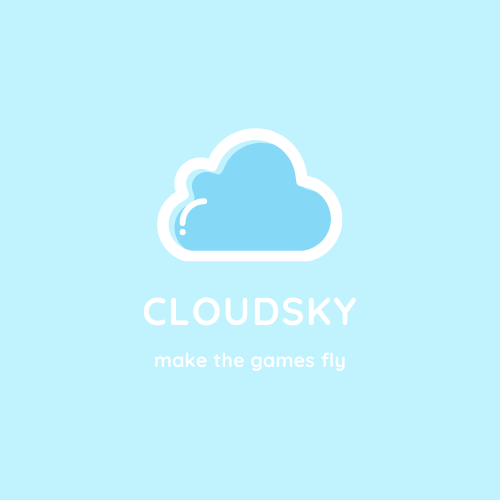
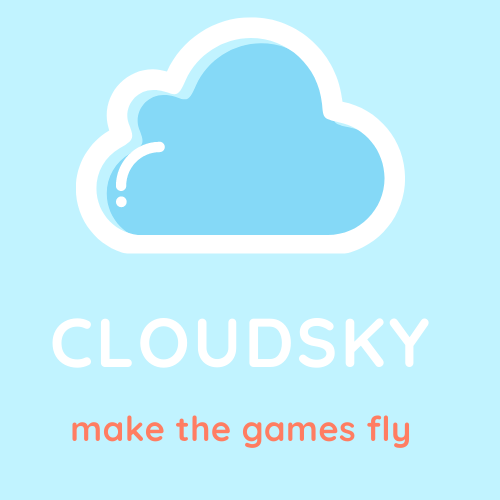
fix: login n reg navigation

diff --git a/project/lib/ui/src/regFragment.cpp b/project/lib/ui/src/regFragment.cpp
@@ -11,16 +11,21 @@ RegFragment::RegFragment()
     : _explanLabel(new QLabel("Input your data to confirm registration"))
     , _userFirstName(new QLineEdit)
     , _userSecondName(new QLineEdit)
+    , _userCountry(new QLineEdit)
+    , _userEmail(new QLineEdit)
     , _userNickName(new QLineEdit)
     , _userFirstPassword(new QLineEdit)
     , _userSecondPassword(new QLineEdit)
     , _ageTxt(new QLabel("Enter your age"))
     , _userAge(new QSpinBox)
+    , _errorLabel(new QLabel("<i>To check and send the data push the button</i>"))
     , _regBut(new QPushButton("Confirm registration"))
     , _backBut(new QPushButton("Back"))
 {
     _userFirstName->setPlaceholderText("First Name");
     _userSecondName->setPlaceholderText("Second Name");
+    _userCountry->setPlaceholderText("Country");
+    _userEmail->setPlaceholderText("Email address");
     _userNickName->setPlaceholderText("Your registration nickname");
     _userFirstPassword->setPlaceholderText("Password");
     _userSecondPassword->setPlaceholderText("Re-enter password to confirm");
@@ -28,17 +33,20 @@ RegFragment::RegFragment()
     _userFirstPassword->setEchoMode(QLineEdit::Password);
     _userSecondPassword->setEchoMode(QLineEdit::Password);
     _userAge->setButtonSymbols(QAbstractSpinBox::NoButtons);
-    _userAge->setFixedWidth(75);
+    _userAge->setFixedWidth(100);
     _backBut->setFixedWidth(75);
 
     _explanLabel->setStyleSheet(themestyle::fixed.value(themestyle::Type::CAPITALLABEL));
     _userFirstName->setStyleSheet(themestyle::fixed.value(themestyle::Type::LINEEDIT) + themestyle::active.value(themestyle::Type::LINEEDIT));
     _userSecondName->setStyleSheet(themestyle::fixed.value(themestyle::Type::LINEEDIT) + themestyle::active.value(themestyle::Type::LINEEDIT));
+    _userCountry->setStyleSheet(themestyle::fixed.value(themestyle::Type::LINEEDIT) + themestyle::active.value(themestyle::Type::LINEEDIT));
+    _userEmail->setStyleSheet(themestyle::fixed.value(themestyle::Type::LINEEDIT) + themestyle::active.value(themestyle::Type::LINEEDIT));
     _userNickName->setStyleSheet(themestyle::fixed.value(themestyle::Type::LINEEDIT) + themestyle::active.value(themestyle::Type::LINEEDIT));
     _userFirstPassword->setStyleSheet(themestyle::fixed.value(themestyle::Type::LINEEDIT) + themestyle::active.value(themestyle::Type::LINEEDIT));
     _userSecondPassword->setStyleSheet(themestyle::fixed.value(themestyle::Type::LINEEDIT) + themestyle::active.value(themestyle::Type::LINEEDIT));
     _ageTxt->setStyleSheet(themestyle::fixed.value(themestyle::Type::LOWERLABEL));
     _userAge->setStyleSheet(themestyle::fixed.value(themestyle::Type::SPINBOX) + themestyle::active.value(themestyle::Type::SPINBOX));
+    _errorLabel->setStyleSheet(themestyle::fixed.value(themestyle::Type::LOWERLABEL));
     _regBut->setStyleSheet(themestyle::fixed.value(themestyle::Type::MAINBUTTON));
     _backBut->setStyleSheet(themestyle::fixed.value(themestyle::Type::SECONDBUTTON));
 
@@ -54,10 +62,13 @@ RegFragment::RegFragment()
     mainVL->addWidget(_explanLabel);
     mainVL->addWidget(_userFirstName);
     mainVL->addWidget(_userSecondName);
+    mainVL->addWidget(_userCountry);
+    mainVL->addWidget(_userEmail);
     mainVL->addWidget(_userNickName);
     mainVL->addWidget(_userFirstPassword);
     mainVL->addWidget(_userSecondPassword);
     mainVL->addLayout(ageHL);
+    mainVL->addWidget(_errorLabel);
     mainVL->addLayout(buttsHL);
 
     connect(_regBut, &QPushButton::clicked, this, &RegFragment::onReg);
@@ -69,11 +80,14 @@ RegFragment::~RegFragment()
     delete _explanLabel;
     delete _userFirstName;
     delete _userSecondName;
+    delete _userCountry;
+    delete _userEmail;
     delete _userNickName;
     delete _userFirstPassword;
     delete _userSecondPassword;
     delete _ageTxt;
     delete _userAge;
+    delete _errorLabel;
     delete _regBut;
     delete _backBut;
 }
@@ -81,6 +95,11 @@ RegFragment::~RegFragment()
 bool RegFragment::checkData()
 {
     return true;
+}
+
+void RegFragment::onResume()
+{
+    emit back();
 }
 
 // slots

diff --git a/project/lib/ui/src/mainFragment.cpp b/project/lib/ui/src/mainFragment.cpp
@@ -24,15 +24,13 @@ MainFragment::MainFragment()
 //  _addGameBut->setStyleSheet("background-color: grey; border: none; border-radius: 7px; padding: 10px; color: white;");
     _logOutBut->setStyleSheet(themestyle::fixed.value(themestyle::Type::SECONDBUTTON));
 
-    _pic->setPixmap(QPixmap(QDir("project/lib/ui/media/").absoluteFilePath("CloudSky.png")));
+    _pic->setPixmap(QPixmap(QDir("project/lib/ui/media/").absoluteFilePath("logout.png")));
     _pic->setScaledContents(true);
     _pic->setFixedHeight(235);
     _pic->setFixedWidth(235);
 
     QHBoxLayout* mainHL = new QHBoxLayout(this);
     QVBoxLayout* buttonsVL = new QVBoxLayout;
-    mainHL->addLayout(buttonsVL);
-    mainHL->addWidget(_pic);
 
     buttonsVL->addWidget(_greetingLabel);
     buttonsVL->addWidget(_openGameBut);
@@ -40,12 +38,16 @@ MainFragment::MainFragment()
 //  buttonsVL->addWidget(_addGameBut);
     buttonsVL->addWidget(_logOutBut);
 
+    mainHL->addLayout(buttonsVL);
+    mainHL->addWidget(_pic);
+    
     buttonsVL->setAlignment(Qt::AlignCenter);
     mainHL->setAlignment(Qt::AlignCenter);
 
     _openGameBut->installEventFilter(_watcher);
 //  _addGameBut->installEventFilter(watcher);
     _settingsBut->installEventFilter(_watcher);
+    _logOutBut->installEventFilter(_watcher);
 
     connect(_watcher, &secondfit::ButtonHoverWatcher::onButHovered, this, &MainFragment::onButHovered);
     connect(_openGameBut, &QPushButton::clicked, this, &MainFragment::onGame);
@@ -75,11 +77,14 @@ void MainFragment::onButHovered(QPushButton* obj)
         _pic->setPixmap(QPixmap(QDir("project/lib/ui/media/").absoluteFilePath("settings.png")));
     else if (obj == _openGameBut)
         _pic->setPixmap(QPixmap(QDir("project/lib/ui/media/").absoluteFilePath("controller.png")));
+    else if (obj == _logOutBut)
+        _pic->setPixmap(QPixmap(QDir("project/lib/ui/media/").absoluteFilePath("logout.png")));
+
 }
 
 void MainFragment::onLogOut()
 {
-    //emit 
+    emit back();
 }
 
 } // namespace fragment

diff --git a/project/lib/ui/include/fragmentThemeStyle.h b/project/lib/ui/include/fragmentThemeStyle.h
@@ -20,11 +20,12 @@ namespace theme {
 
     const QString maincolor("rgb(193,243,255);"); // ligthblue #c1f3ff
     const QString secondcolor("rgb(189,144,255);"); // ~pink #bd90ff
-    const QString thirdcolor("rgb(133, 232, 125);"); // ~green #85e87d
+    const QString thirdcolor("rgb(255,125,98);"); // ~orange #FF7D62
+    const QString attentioncolor("red;");
     const QString fontcolor("white;");
     const QString backraoundcolor("rgb(154,154,154);"); // ~grey
 
-    const QString lowerfontsize("16px;");
+    const QString lowerfontsize("14px;");
     const QString capitalfontsize("24px;");
 
     const QString padding("10px;");

diff --git a/project/lib/ui/include/regFragment.h b/project/lib/ui/include/regFragment.h
@@ -22,17 +22,23 @@ public slots:
     void onBack();
 
 private:
+    void onResume() override;
+
+private:
     bool checkData();
 
 private:
     QLabel* _explanLabel;
     QLineEdit* _userFirstName;
     QLineEdit* _userSecondName;
+    QLineEdit* _userCountry;
+    QLineEdit* _userEmail;
     QLineEdit* _userNickName;
     QLineEdit* _userFirstPassword;
     QLineEdit* _userSecondPassword;
     QLabel* _ageTxt;
     QSpinBox* _userAge;
+    QLabel* _errorLabel;
     QPushButton* _regBut;
     QPushButton* _backBut;
 };

diff --git a/project/lib/ui/src/authFragment.cpp b/project/lib/ui/src/authFragment.cpp
@@ -55,6 +55,11 @@ bool AuthFragment::checkData()
     return true;
 }
 
+void AuthFragment::onResume()
+{
+    emit back();
+}
+
 // slots
 void AuthFragment::onAuth()
 {

diff --git a/project/lib/ui/include/authFragment.h b/project/lib/ui/include/authFragment.h
@@ -21,6 +21,9 @@ public slots:
     void onBack();
 
 private:
+    void onResume() override;
+
+private:
     bool checkData();
 
 private:
